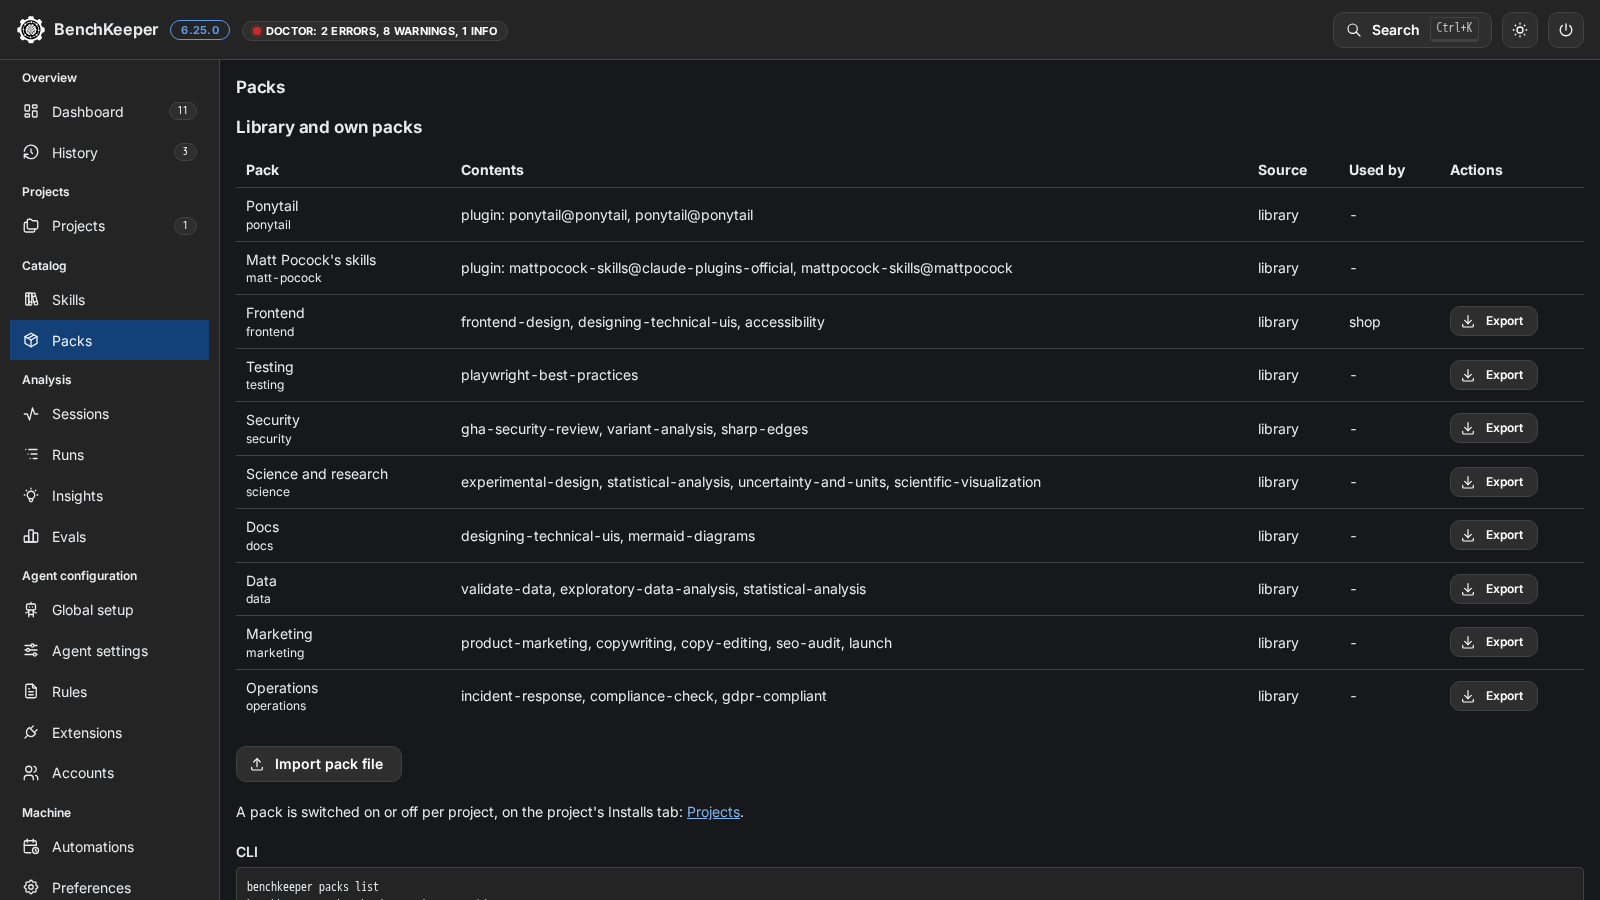
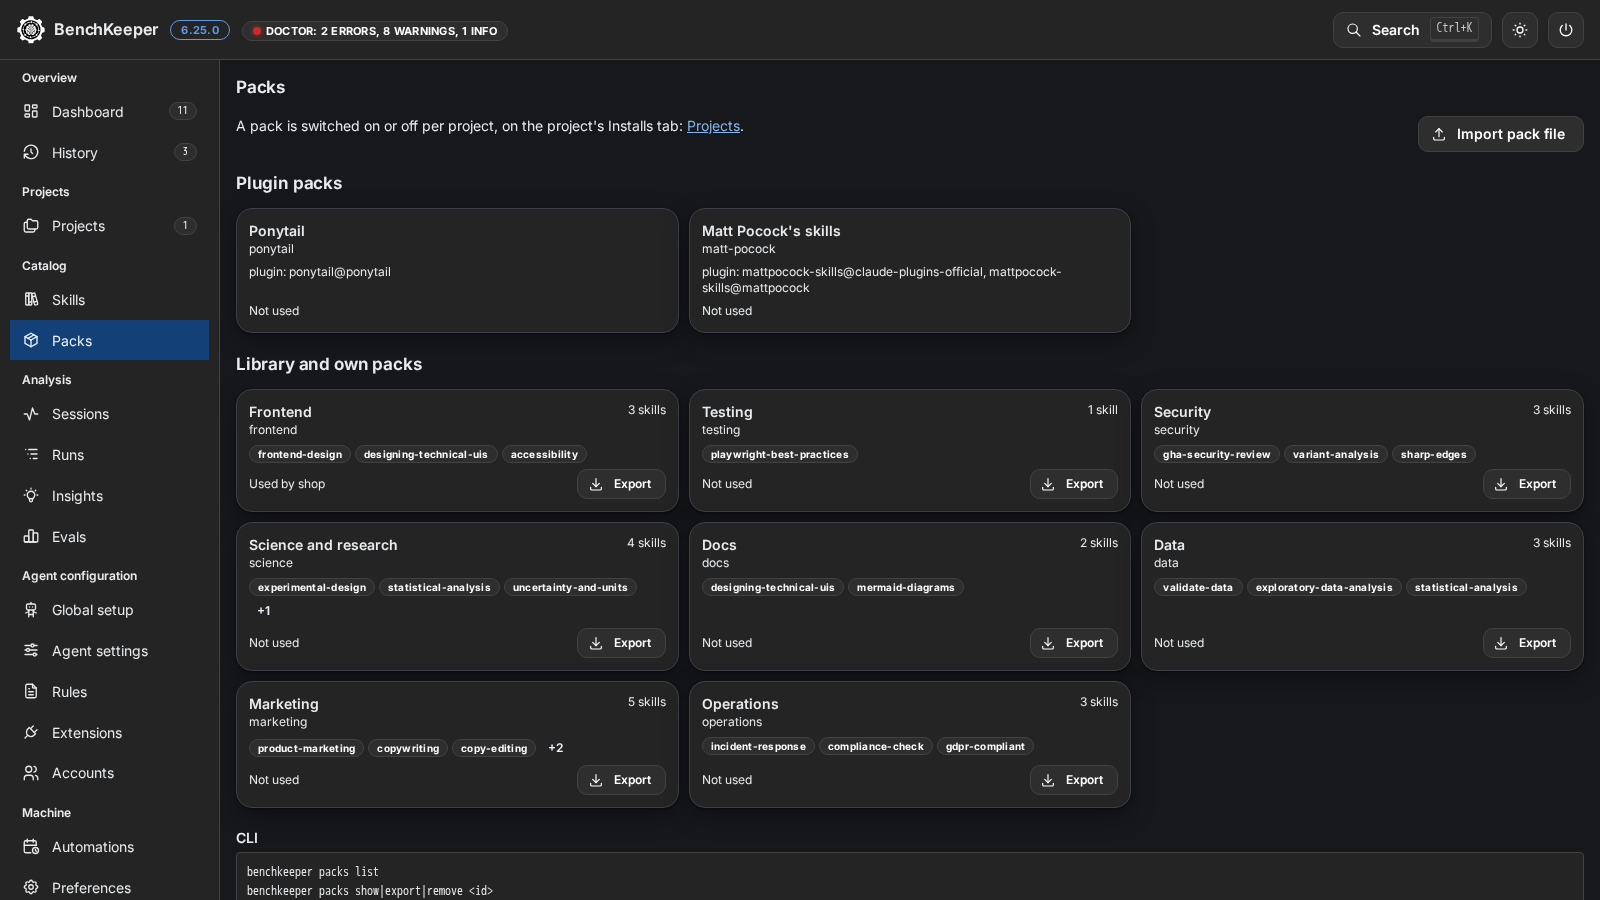
feat(app): show packs as cards, plugin packs first (#910)

diff --git a/app/ui/packs.jsx b/app/ui/packs.jsx
@@ -1,0 +1,128 @@
+import { Anchor, Badge, Button, Code, FileButton, Group, Modal, Paper, SimpleGrid, Stack, Text, Title } from '@mantine/core';
+import { IconDownload, IconTrash, IconUpload } from '@tabler/icons-react';
+import { useState } from 'react';
+import { api } from './api.js';
+import { Cli, Section } from './parts.jsx';
+import { plural } from './cards.js';
+import { Loading, Note, download, href, icon, useAnnounce } from './shell.jsx';
+
+// Files in the packs folder that are no pack: the library leaves them out, so they are listed here to be removed (the file goes to the backups).
+function InvalidPacks({ files, onChange, announce }) {
+  const [error, setError] = useState(null);
+  // This section goes with its last file: focus then moves to the packs heading.
+  const remove = async (file) => {
+    setError(null);
+    try { await api('/api/packs', { action: 'remove', id: file }); onChange(); announce(files.length > 1 ? 'invalid-packs-title' : 'packs-title', `Removed: ${file}`); } catch (e) { setError(e.message); }
+  };
+  return (
+    <Section title="Pack files that are not packs" id="invalid-packs">
+      {error && <Note color="red" title="Failed">{error}</Note>}
+      {files.map(({ file, reason }) => (
+        <Group key={file} justify="space-between" wrap="nowrap">
+          <Text size="sm"><Code>{file}</Code>: {reason}</Text>
+          <Button leftSection={icon(IconTrash)} size="xs" variant="subtle" aria-label={`Remove ${file}`} onClick={() => remove(file)}>Remove</Button>
+        </Group>
+      ))}
+    </Section>
+  );
+}
+
+const SHOWN = 3;
+const usedBy = (p) => (p.usedBy?.length ? `Used by ${p.usedBy.map((d) => d.split('/').pop()).join(', ')}` : 'Not used');
+
+// The first skills of a pack as chips, the rest one click away.
+function SkillChips({ pack }) {
+  const [all, setAll] = useState(false);
+  const extra = pack.skills.length - SHOWN;
+  return (
+    <Group gap={4}>
+      {(all ? pack.skills : pack.skills.slice(0, SHOWN)).map((n) => <Badge key={n} variant="default" size="sm" tt="none">{n}</Badge>)}
+      {extra > 0 && <Button size="compact-xs" variant="subtle" aria-expanded={all} aria-label={`${all ? 'Fewer' : `+${extra} more`} skills of ${pack.id}`} onClick={() => setAll(!all)}>{all ? 'Fewer' : `+${extra}`}</Button>}
+    </Group>
+  );
+}
+
+function PackCard({ pack: p, run, announce }) {
+  return (
+    <Paper withBorder p="sm" role="group" aria-label={`Pack ${p.id}`}>
+      <Stack gap={6} h="100%" justify="space-between">
+        <Stack gap={6}>
+          <Group justify="space-between" wrap="nowrap" align="flex-start" gap="xs">
+            <div style={{ overflowWrap: 'anywhere' }}><Text fw={600} size="sm">{p.title ?? p.id}</Text><Text size="xs">{p.id}</Text></div>
+            <Group gap={6} wrap="nowrap">
+              {p.own && <Badge variant="default" size="sm">own</Badge>}
+              {p.skills && <Text size="xs" style={{ whiteSpace: 'nowrap' }}>{plural(p.skills.length, 'skill')}</Text>}
+            </Group>
+          </Group>
+          {p.skills ? <SkillChips pack={p} /> : <Text size="xs" style={{ overflowWrap: 'anywhere' }}>plugin: {[...new Set(Object.values(p.plugins ?? {}).map((x) => x.id))].join(', ')}</Text>}
+        </Stack>
+        <Group justify="space-between" gap="xs">
+          <Text size="xs">{usedBy(p)}</Text>
+          <Group gap="xs" wrap="nowrap">
+            {p.skills && <Button leftSection={icon(IconDownload)} size="xs" variant="default" aria-label={`Export ${p.id}`} onClick={run(async () => { const r = await api(`/api/pack-export?id=${encodeURIComponent(p.id)}`); download(r.name, r.text); })}>Export</Button>}
+            {p.own && <Button leftSection={icon(IconTrash)} size="xs" variant="subtle" aria-label={`Remove ${p.id}`} disabled={!!p.usedBy?.length} title={p.usedBy?.length ? `In use by ${p.usedBy.join(', ')}: switch it off there first` : undefined} onClick={run(async () => { await api('/api/packs', { action: 'remove', id: p.id }); announce('packs-title', `Removed: ${p.id}`); })}>Remove</Button>}
+          </Group>
+        </Group>
+      </Stack>
+    </Paper>
+  );
+}
+
+const Cards = ({ list, run, announce }) => <SimpleGrid cols={{ base: 1, sm: 2, lg: 3 }} spacing="xs">{list.map((p) => <PackCard key={p.id} pack={p} run={run} announce={announce} />)}</SimpleGrid>;
+
+function Packs({ packs, onChange, announce }) {
+  const [error, setError] = useState(null);
+  const [file, setFile] = useState(0);
+  // A pack file whose id is an own pack's: asked first, the old file goes to the backup.
+  const [replace, setReplace] = useState(null);
+  const run = (f) => async (...a) => { setError(null); try { await f(...a); onChange(); } catch (e) { setError(e.message); } };
+  const importText = run(async (text) => { setReplace(null); await api('/api/packs', { action: 'import', text }); setFile((n) => n + 1); });
+  const plugins = packs.filter((p) => !p.skills), library = packs.filter((p) => p.skills);
+  return (
+    <>
+      <Group justify="space-between" align="flex-start">
+        <Text size="sm">A pack is switched on or off per project, on the project's Installs tab: <Anchor href={href('projects')} underline="always">Projects</Anchor>.</Text>
+        <FileButton key={file} accept="application/json,.json"
+          onChange={async (f) => {
+            if (!f) return;
+            setError(null);
+            let text;
+            try { text = await f.text(); } catch (e) { setError(e.message); return; }
+            let id; try { id = JSON.parse(text).id; } catch { /* the server names what is wrong */ }
+            if (packs.some((p) => p.own && p.id === id)) setReplace({ id, text }); else await importText(text);
+          }}>
+          {(props) => <Button leftSection={icon(IconUpload)} variant="default" {...props}>Import pack file</Button>}
+        </FileButton>
+      </Group>
+      {error && <Note color="red" title="Failed">{error}</Note>}
+      {plugins.length > 0 && <Section title="Plugin packs" id="plugin-packs"><Cards list={plugins} run={run} announce={announce} /></Section>}
+      <Section title="Library and own packs" id="packs"><Cards list={library} run={run} announce={announce} /></Section>
+      <Modal opened={!!replace} onClose={() => { setReplace(null); setFile((n) => n + 1); }} withCloseButton={false} attributes={{ content: { 'aria-label': `Replace pack ${replace?.id}?` } }}>
+        <Stack gap="sm">
+          <Title order={2} size="h4">Replace pack {replace?.id}?</Title>
+          <Text size="sm">An own pack with this id exists. Its file goes to the run backups, as when a pack is removed.</Text>
+          <Group justify="flex-end">
+            <Button variant="default" onClick={() => { setReplace(null); setFile((n) => n + 1); }}>Cancel</Button>
+            <Button onClick={() => importText(replace.text)}>Replace pack {replace?.id}</Button>
+          </Group>
+        </Stack>
+      </Modal>
+    </>
+  );
+}
+
+// The Catalog's second page: the library packs and the own ones, defined once; a project switches them on its Installs tab.
+export function CatalogPacks({ catalog, refresh }) {
+  // Here and not in the packs sections: the section of files that are not packs goes with its last file.
+  const [status, announce] = useAnnounce();
+  return (
+    <Loading state={catalog} label="catalog">{(c) => (
+      <Stack gap="lg">
+        <Packs packs={c.packs} onChange={refresh} announce={announce} />
+        {c.invalidPacks?.length > 0 && <InvalidPacks files={c.invalidPacks} onChange={refresh} announce={announce} />}
+        {status}
+        <Cli>{'benchkeeper packs list\nbenchkeeper packs show|export|remove <id>\nbenchkeeper packs import <file>\nbenchkeeper packs enable|disable <id> --project <dir>'}</Cli>
+      </Stack>
+    )}</Loading>
+  );
+}

diff --git a/app/ui/views.jsx b/app/ui/views.jsx
@@ -1,4 +1,4 @@
-import { Anchor, Badge, Button, Checkbox, Code, Divider, Drawer, FileButton, Group, List, Loader, Modal, NavLink, Progress, SegmentedControl, Select, SimpleGrid, Stack, Switch, Table, Tabs, Text, Textarea, TextInput, Title, Tooltip, VisuallyHidden, useComputedColorScheme } from '@mantine/core';
+import { Anchor, Badge, Button, Checkbox, Code, Divider, Drawer, FileButton, Group, List, Loader, NavLink, Progress, SegmentedControl, Select, SimpleGrid, Stack, Switch, Table, Tabs, Text, Textarea, TextInput, Title, Tooltip, VisuallyHidden, useComputedColorScheme } from '@mantine/core';
 import { IconDeviceFloppy, IconDownload, IconFolderSearch, IconFolders, IconListCheck, IconPackage, IconPlus, IconRefresh, IconTrash, IconUpload } from '@tabler/icons-react';
 import { Component, Suspense, lazy, useEffect, useRef, useState } from 'react';
 import { api } from './api.js';
@@ -64,85 +64,6 @@ function PackBuilder({ opened, onClose, skills, onRemove, onSaved }) {
   );
 }
 
-// Files in the packs folder that are no pack: the library leaves them out, so they are listed here to be removed (the file goes to the backups).
-function InvalidPacks({ files, onChange, announce }) {
-  const [error, setError] = useState(null);
-  // This section goes with its last file: focus then moves to the packs heading.
-  const remove = async (file) => {
-    setError(null);
-    try { await api('/api/packs', { action: 'remove', id: file }); onChange(); announce(files.length > 1 ? 'invalid-packs-title' : 'packs-title', `Removed: ${file}`); } catch (e) { setError(e.message); }
-  };
-  return (
-    <Section title="Pack files that are not packs" id="invalid-packs">
-      {error && <Note color="red" title="Failed">{error}</Note>}
-      {files.map(({ file, reason }) => (
-        <Group key={file} justify="space-between" wrap="nowrap">
-          <Text size="sm"><Code>{file}</Code>: {reason}</Text>
-          <Button leftSection={icon(IconTrash)} size="xs" variant="subtle" aria-label={`Remove ${file}`} onClick={() => remove(file)}>Remove</Button>
-        </Group>
-      ))}
-    </Section>
-  );
-}
-
-function Packs({ packs, onChange, announce }) {
-  const [error, setError] = useState(null);
-  const [file, setFile] = useState(0);
-  // A pack file whose id is an own pack's: asked first, the old file goes to the backup.
-  const [replace, setReplace] = useState(null);
-  const run = (f) => async (...a) => { setError(null); try { await f(...a); onChange(); } catch (e) { setError(e.message); } };
-  const importText = run(async (text) => { setReplace(null); await api('/api/packs', { action: 'import', text }); setFile((n) => n + 1); });
-  return (
-    <Section title="Library and own packs" id="packs">
-      {error && <Note color="red" title="Failed">{error}</Note>}
-      <Table.ScrollContainer minWidth={520}>
-        <Table aria-label="Packs">
-          <Table.Thead><Table.Tr><Table.Th>Pack</Table.Th><Table.Th>Contents</Table.Th><Table.Th>Source</Table.Th><Table.Th>Used by</Table.Th><Table.Th>Actions</Table.Th></Table.Tr></Table.Thead>
-          <Table.Tbody>
-            {packs.map((p) => (
-              <Table.Tr key={p.id}>
-                <Table.Td>{p.title ?? p.id}<Text size="xs">{p.id}</Text></Table.Td>
-                <Table.Td>{p.skills?.join(', ') ?? `plugin: ${Object.values(p.plugins ?? {}).map((x) => x.id).join(', ')}`}</Table.Td>
-                <Table.Td>{p.own ? 'own' : 'library'}</Table.Td>
-                <Table.Td>{p.usedBy?.length ? p.usedBy.map((d) => d.split('/').pop()).join(', ') : '-'}</Table.Td>
-                <Table.Td>
-                  <Group gap="xs" wrap="nowrap">
-                    {p.skills && <Button leftSection={icon(IconDownload)} size="xs" variant="default" aria-label={`Export ${p.id}`} onClick={run(async () => { const r = await api(`/api/pack-export?id=${encodeURIComponent(p.id)}`); download(r.name, r.text); })}>Export</Button>}
-                    {p.own && <Button leftSection={icon(IconTrash)} size="xs" variant="subtle" aria-label={`Remove ${p.id}`} disabled={!!p.usedBy?.length} title={p.usedBy?.length ? `In use by ${p.usedBy.join(', ')}: switch it off there first` : undefined} onClick={run(async () => { await api('/api/packs', { action: 'remove', id: p.id }); announce('packs-title', `Removed: ${p.id}`); })}>Remove</Button>}
-                  </Group>
-                </Table.Td>
-              </Table.Tr>
-            ))}
-          </Table.Tbody>
-        </Table>
-      </Table.ScrollContainer>
-      <Group>
-        <FileButton key={file} accept="application/json,.json"
-          onChange={async (f) => {
-            if (!f) return;
-            setError(null);
-            let text;
-            try { text = await f.text(); } catch (e) { setError(e.message); return; }
-            let id; try { id = JSON.parse(text).id; } catch { /* the server names what is wrong */ }
-            if (packs.some((p) => p.own && p.id === id)) setReplace({ id, text }); else await importText(text);
-          }}>
-          {(props) => <Button leftSection={icon(IconUpload)} variant="default" {...props}>Import pack file</Button>}
-        </FileButton>
-      </Group>
-      <Modal opened={!!replace} onClose={() => { setReplace(null); setFile((n) => n + 1); }} withCloseButton={false} attributes={{ content: { 'aria-label': `Replace pack ${replace?.id}?` } }}>
-        <Stack gap="sm">
-          <Title order={2} size="h4">Replace pack {replace?.id}?</Title>
-          <Text size="sm">An own pack with this id exists. Its file goes to the run backups, as when a pack is removed.</Text>
-          <Group justify="flex-end">
-            <Button variant="default" onClick={() => { setReplace(null); setFile((n) => n + 1); }}>Cancel</Button>
-            <Button onClick={() => importText(replace.text)}>Replace pack {replace?.id}</Button>
-          </Group>
-        </Stack>
-      </Modal>
-    </Section>
-  );
-}
-
 // The Catalog's first page: the library skills and the user's own to browse, each with its detail, the editor of the user's
 // skills, and the pack builder. A skill's state in a project is on that project's page.
 export function CatalogSkills({ catalog, params, refresh }) {
@@ -197,22 +118,7 @@ export function CatalogSkills({ catalog, params, refresh }) {
   );
 }
 
-// The Catalog's second page: the library packs and the own ones, defined once; a project switches them on its Installs tab.
-export function CatalogPacks({ catalog, refresh }) {
-  // Here and not in the packs sections: the section of files that are not packs goes with its last file.
-  const [status, announce] = useAnnounce();
-  return (
-    <Loading state={catalog} label="catalog">{(c) => (
-      <Stack gap="lg">
-        <Packs packs={c.packs} onChange={refresh} announce={announce} />
-        {c.invalidPacks?.length > 0 && <InvalidPacks files={c.invalidPacks} onChange={refresh} announce={announce} />}
-        {status}
-        <Text size="sm">A pack is switched on or off per project, on the project's Installs tab: <Anchor href={href('projects')} underline="always">Projects</Anchor>.</Text>
-        <Cli>{'benchkeeper packs list\nbenchkeeper packs show|export|remove <id>\nbenchkeeper packs import <file>\nbenchkeeper packs enable|disable <id> --project <dir>'}</Cli>
-      </Stack>
-    )}</Loading>
-  );
-}
+export { CatalogPacks } from './packs.jsx';
 
 function SkillDetail({ skill, results, onEdit, onRemove }) {
   const copied = ['own', 'user'].includes(skill.source);

diff --git a/web/src/components/AppPage.tsx b/web/src/components/AppPage.tsx
@@ -65,7 +65,7 @@ export const VIEWS: { id: string; view: string; title: string; shot: string; alt
   },
   {
     id: 'packs', view: 'packs', title: 'Packs', shot: 'packs',
-    alt: 'The Packs page of the Catalog: the library packs and the own ones, each with its skills or plugin and whether it is a library or own pack, the projects that use it, Export, and Remove for an own pack.',
+    alt: 'The Packs page of the Catalog: the plugin packs on top, then the library and own packs as cards, each with its skills, whether it is an own pack, the projects that use it, Export, and Remove for an own pack.',
     text: [
       'Packs lists the library packs and your own with the projects that use them, and exports, imports and removes own packs. A pack is defined once and switched on per project, on the project\'s Installs tab.',
     ],

diff --git a/docs/security.md b/docs/security.md
@@ -131,7 +131,7 @@ A test name refers to the file named in the same row.
 | Plugin ids, marketplace names and MCP server names read from agent files must match `^[A-Za-z0-9][\w.@:-]*$` before they become an argument or a path; others are skipped | `SAFE_NAME` in `steps/global.mjs` | `global.test.mjs` "names from agent files that start with a dash" |
 | A copy to a path that does not exist yet (backups, undo restores, `from` writes) is written beside it and renamed in, so a failed or interrupted copy leaves no half-written path | `copy` in `fsx.mjs` | `bounds.test.mjs` "a copy that fails midway leaves no half-written path ..." |
 | A `skills-lock.json` that is not a lock file is a problem line of `benchkeeper verify`, not an exception | `projectCheck` in `harness.mjs` | `harness.test.mjs` "a skills-lock.json that is not a lock file ..." |
-| Files in the packs folder that are no pack are listed with the reason, in the CLI (`packs list`), `doctor` and the Catalog's Packs page, and removed by file name | `invalidPacks` in `packs.mjs`, `InvalidPacks` in `ui/views.jsx` | `server.test.mjs` "packs: a file that is no pack ...", `ui-3-catalog-projects.spec.mjs` "Packs: a pack file that is not a pack ..." |
+| Files in the packs folder that are no pack are listed with the reason, in the CLI (`packs list`), `doctor` and the Catalog's Packs page, and removed by file name | `invalidPacks` in `packs.mjs`, `InvalidPacks` in `ui/packs.jsx` | `server.test.mjs` "packs: a file that is no pack ...", `ui-3-catalog-projects.spec.mjs` "Packs: a pack file that is not a pack ..." |
 
 ### Local server
 
